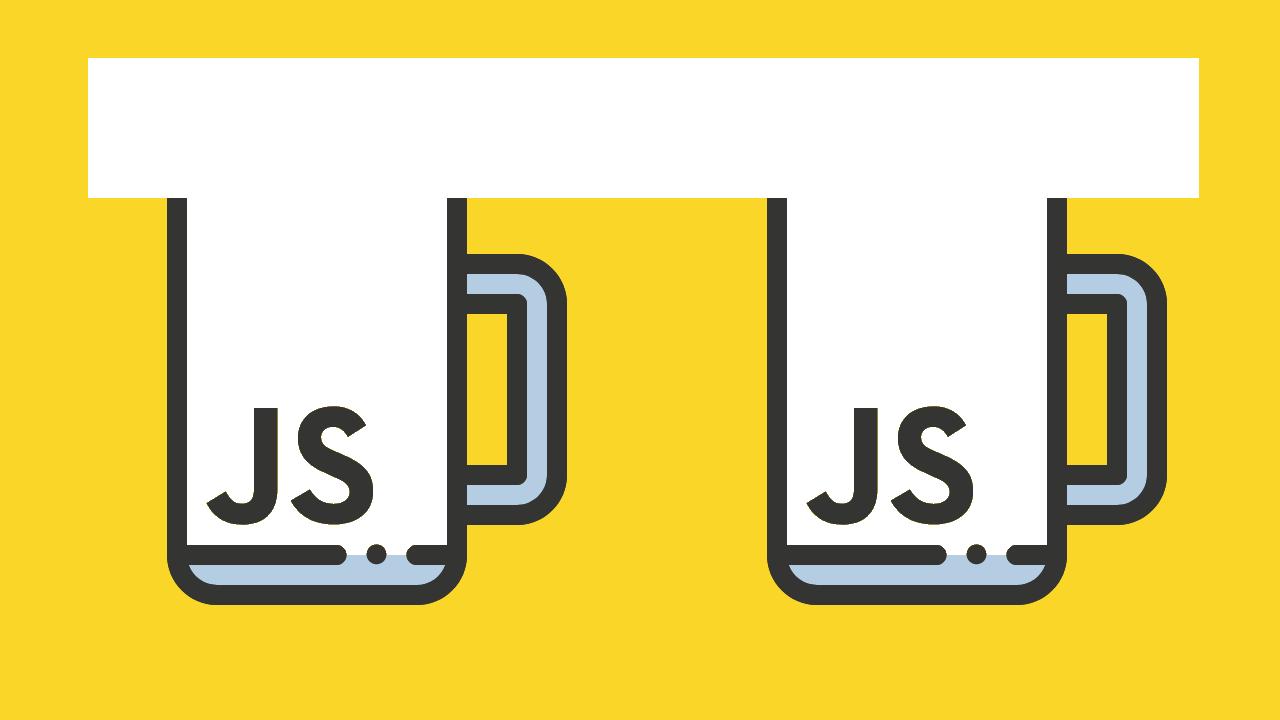
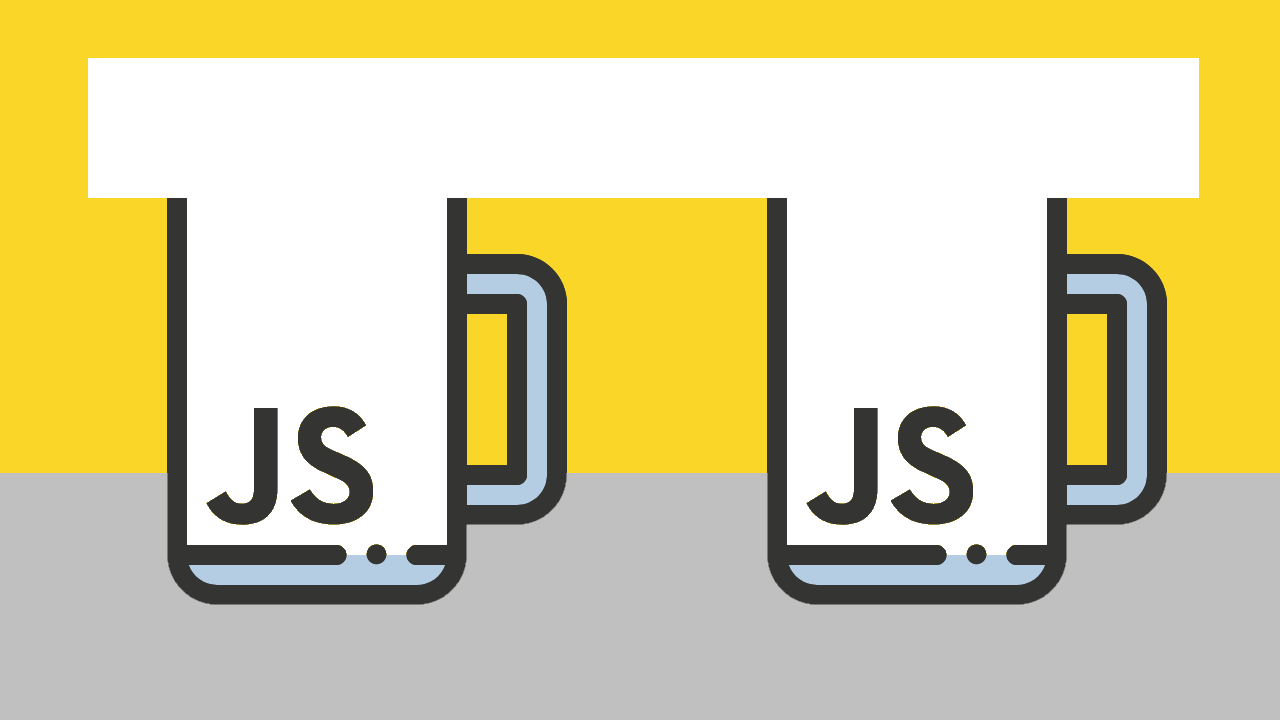
add pig animation for a new tweet xD

Changed region(s): [[0.0, 0.6417, 1.0, 1.0]]

diff --git a/public/js/index.js b/public/js/index.js
@@ -22,17 +22,30 @@ function configureGame() {
 
     function preload() {
         this.load.image('marco', '../img/marco.png');
+        this.load.image('marco-simple', '../img/marco-simple.png');
+        this.load.image('pajaro', '../img/pajaro.png');
+        this.load.image('mesa', '../img/mesa.png');
         this.load.image('cerveza', '../img/cerveza.png');
+        this.load.spritesheet("chancho", "../img/chancho-pet.png", {
+            frameWidth:351,
+            frameHeight: 256,
+            margin: 0,
+            spacing: 0
+        });
+
     }
 
     function create() {
+
+        // crea las animaciones
+        crearAnimaciones(this);
 
         // crea el contenedor de las cervezas
         this.cervezas = {};
 
         // crea las birritas
         this.cervezas.player1 = crearCerveza(this, 168, 500);
-        this.cervezas.player2 = crearCerveza(this, 770, 500);
+        // this.cervezas.player2 = crearCerveza(this, 770, 500);
 
         // crea el marco del juego
         crearMarco(this);
@@ -40,15 +53,30 @@ function configureGame() {
         // crea el socket del juego
         crearSocket(this);
 
+        // crea el container de chanchos
+        this.chanchos = this.add.group({
+            active: true,
+            runChildUpdate: true,
+        })
     }
 
     function update() {
         this.cervezas.player1.moverBurbujas();
-        this.cervezas.player2.moverBurbujas();
+        // this.cervezas.player2.moverBurbujas();
     }
 
     // Metodos del juego
     // --------------------------------
+
+    // crea el set de animaciones
+    function crearAnimaciones(scene) {
+        scene.anims.create({
+            key: "chancho-jump",
+            frameRate: 11,
+            frames: scene.anims.generateFrameNumbers("chancho", { frames: [1,2,3,4,5,6,7,8,9,10,11] }),
+            repeat: -1
+        });
+    }
 
     // crea una cerveza del juego
     function crearCerveza(scene, x, y) {
@@ -106,7 +134,9 @@ function configureGame() {
     // crea el marco del juego
     function crearMarco(scene) {
         scene.cameras.main.setBackgroundColor('#F9D628');
-        scene.add.image(0, 0, 'marco').setOrigin(0);
+        scene.add.image(0, 473, 'mesa').setOrigin(0).setDepth(-10);
+        // scene.add.image(0, 0, 'marco').setOrigin(0);
+        scene.add.image(0, 0, 'marco-simple').setOrigin(0);
     }
 
     // crea el socket del juego
@@ -114,13 +144,85 @@ function configureGame() {
         scene.socket = io();
         scene.socket.on("tweet_player_1", (tweet) => {
             console.log(tweet.screenName);
-            scene.cervezas.player1.subir(20);
+            scene.cervezas.player1.subir(40);
+            crearChancho(scene,tweet.screenName);
         });
-        scene.socket.on("tweet_player_2", (tweet) => {
-            console.log(tweet.screenName);
-            scene.cervezas.player2.subir(20);
-        });
+        // scene.socket.on("tweet_player_2", (tweet) => {
+        //     console.log(tweet.screenName);
+        //     scene.cervezas.player2.subir(40);
+        //     crearChancho(scene,tweet.screenName);
+        // });
     }
+
+    // crea el chancho del usuario
+    function crearChancho(scene, nombre) {
+        const velocidad = Phaser.Math.Between(1,3);
+        const contadorMax = 1;
+        let x = 1280;
+        let y = 620 + Phaser.Math.Between(-50,50);
+        const chancho = scene.add.sprite(x,y,"chancho").setScale(0.5);
+        scene.chanchos.add(chancho);
+        
+        chancho.direccion = -1;
+        chancho.contador = 0;
+        chancho.nombre = crearNombre(scene,  chancho.x, chancho.y -60,nombre);
+
+        if (Phaser.Math.Between(0,1) == 0) {
+            chancho.x = 0;
+             chancho.setFlipX(true);
+             chancho.direccion = 1;
+            }
+            
+            chancho.anims.play("chancho-jump", true);
+            
+            chancho.update = function() {
+                chancho.x += chancho.direccion * velocidad;
+                chancho.nombre.mover(chancho.x);
+
+                if (chancho.x < 0 || chancho.x > 1280) {
+                    chancho.setFlipX(!chancho.flipX);
+                chancho.contador++;
+                chancho.direccion = chancho.direccion * (-1);
+
+                if (chancho.contador >=contadorMax) {
+                    chancho.nombre.destroy();
+                    chancho.destroy();
+                }
+            } 
+        }
+
+
+
+        return chancho;
+    }
+
+    function crearNombre(scene, x, y, nombre) {
+
+        var p = scene.add.image(x-80,y,'pajaro');
+        var texto = scene.add.text(x-50, y-15, nombre, { 
+            fontFamily: 'Arial', 
+            fontStyle: 'bold', 
+            fontSize: 30, 
+            color: 'black',
+            backgroundColor: 'white' ,
+            padding: 2
+        });
+ 
+        return {
+            p: p, 
+            texto: texto, 
+            mover: function(x) {
+                p.x = x-80; texto.x = x-50;
+            },
+            destroy: function() {
+                p.destroy();
+                texto.destroy();
+            }
+        };
+        
+    }
+
+    
 }
 
 

diff --git a/public/index.html b/public/index.html
@@ -13,7 +13,6 @@
 
     <script src="/socket.io/socket.io.js"></script>
     <script src="https://cdn.jsdelivr.net/npm/phaser@3.24.1/dist/phaser.min.js"></script>
-    <script src="js/water.js"></script>
     <script src="js/index.js"></script>
 </body>
 
